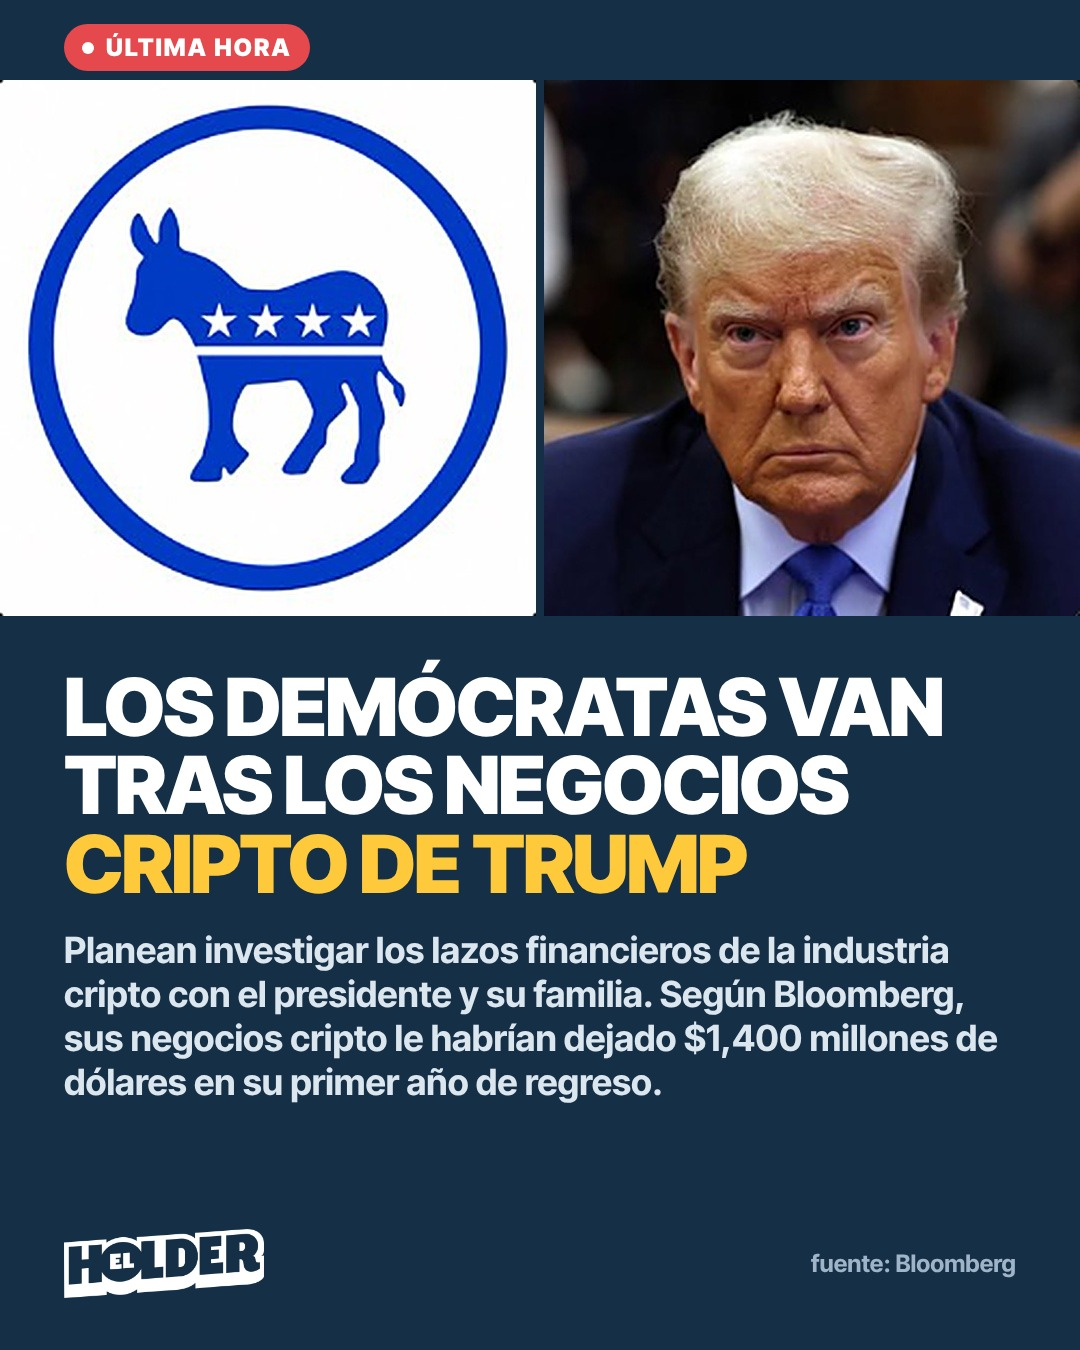
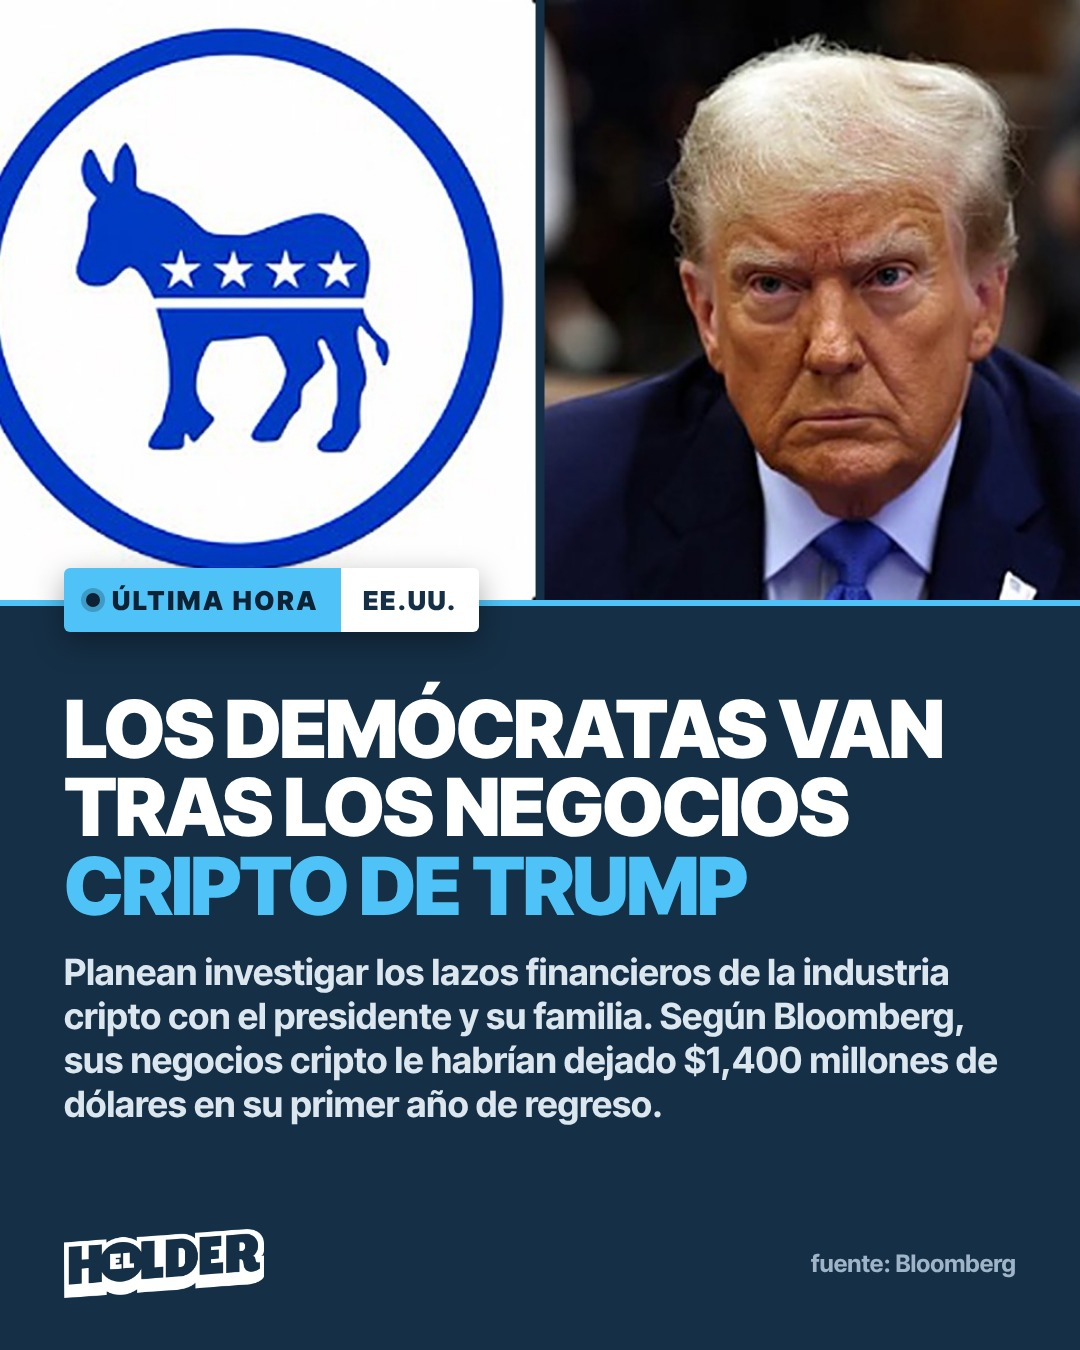
Noticia rápida: acento azul y nueva etiqueta de última hora
Claude-Session: https://claude.ai/code/session_011HtJt2a4sBpoKNENnst7wy

diff --git a/noticias/2026-11-04-democratas-trump-cripto/src/noticia.html b/noticias/2026-11-04-democratas-trump-cripto/src/noticia.html
@@ -5,18 +5,22 @@
 html,body{margin:0}*{box-sizing:border-box}
 body{width:1080px;height:1350px;position:relative;overflow:hidden;background:#152F46;font-family:'IT';color:#fff}
 #foto{position:absolute;left:0;top:80px;width:1080px;height:536px;background:url(foto2.jpg) center/cover}
-#pill{position:absolute;left:64px;top:24px;display:flex;align-items:center;gap:12px;background:#E5484D;color:#fff;font-weight:900;font-size:24px;letter-spacing:.08em;padding:9px 18px;border-radius:999px}
-#pill i{width:12px;height:12px;border-radius:50%;background:#fff;display:block}
-#txt{position:absolute;left:64px;right:64px;top:668px;display:flex;flex-direction:column;gap:26px}
+#foto{top:0 !important;height:600px !important}
+#bar{position:absolute;left:0;top:600px;width:1080px;height:6px;background:#4FC3F7}
+#pill{position:absolute;left:64px;top:568px;display:flex;align-items:stretch;height:64px;border-radius:6px;overflow:hidden;box-shadow:0 10px 30px rgba(0,0,0,.35)}
+#pill .l{display:flex;align-items:center;gap:12px;background:#4FC3F7;color:#0E2235;font-weight:900;font-size:26px;letter-spacing:.1em;padding:0 22px}
+#pill .l i{width:14px;height:14px;border-radius:50%;background:#0E2235;display:block;box-shadow:0 0 0 5px rgba(14,34,53,.25)}
+#pill .r{display:flex;align-items:center;background:#fff;color:#152F46;font-weight:900;font-size:26px;letter-spacing:.06em;padding:0 22px}
+#txt{position:absolute;left:64px;right:64px;top:690px;display:flex;flex-direction:column;gap:26px}
 h1{margin:0;font-weight:900;font-size:80px;line-height:.98;letter-spacing:-.025em;text-transform:uppercase}
-h1 .a{color:#FFC93C}
+h1 .a{color:#4FC3F7}
 p{margin:0;font-weight:700;font-size:36px;line-height:1.22;color:#DCE6EF}
 #pie{position:absolute;left:64px;right:64px;bottom:52px;display:flex;align-items:center;justify-content:space-between}
 #pie img{width:200px}
 #pie span{font-size:24px;font-weight:700;color:#9FB4C7}
 </style></head><body>
-<span id="pill"><i></i>ÚLTIMA HORA</span>
-<div id="foto"></div>
+<div id="foto"></div><div id="bar"></div>
+<div id="pill"><span class="l"><i></i>ÚLTIMA HORA</span><span class="r">EE.UU.</span></div>
 <div id="txt" class="chk">
  <h1 class="chk">Los demócratas van tras los negocios <span class="a">cripto de Trump</span></h1>
  <p class="chk">Planean investigar los lazos financieros de la industria cripto con el presidente y su familia. Según Bloomberg, sus negocios cripto le habrían dejado $1,400 millones de dólares en su primer año de regreso.</p>
